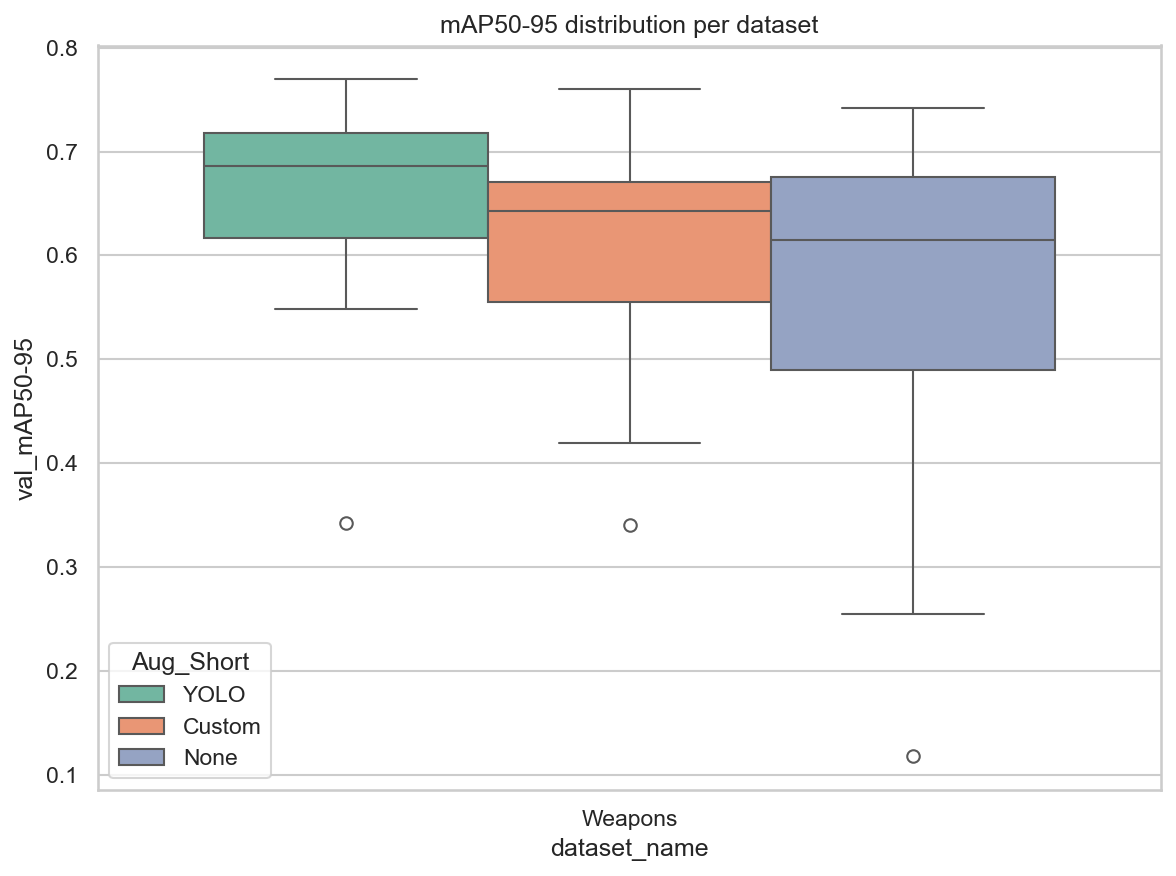
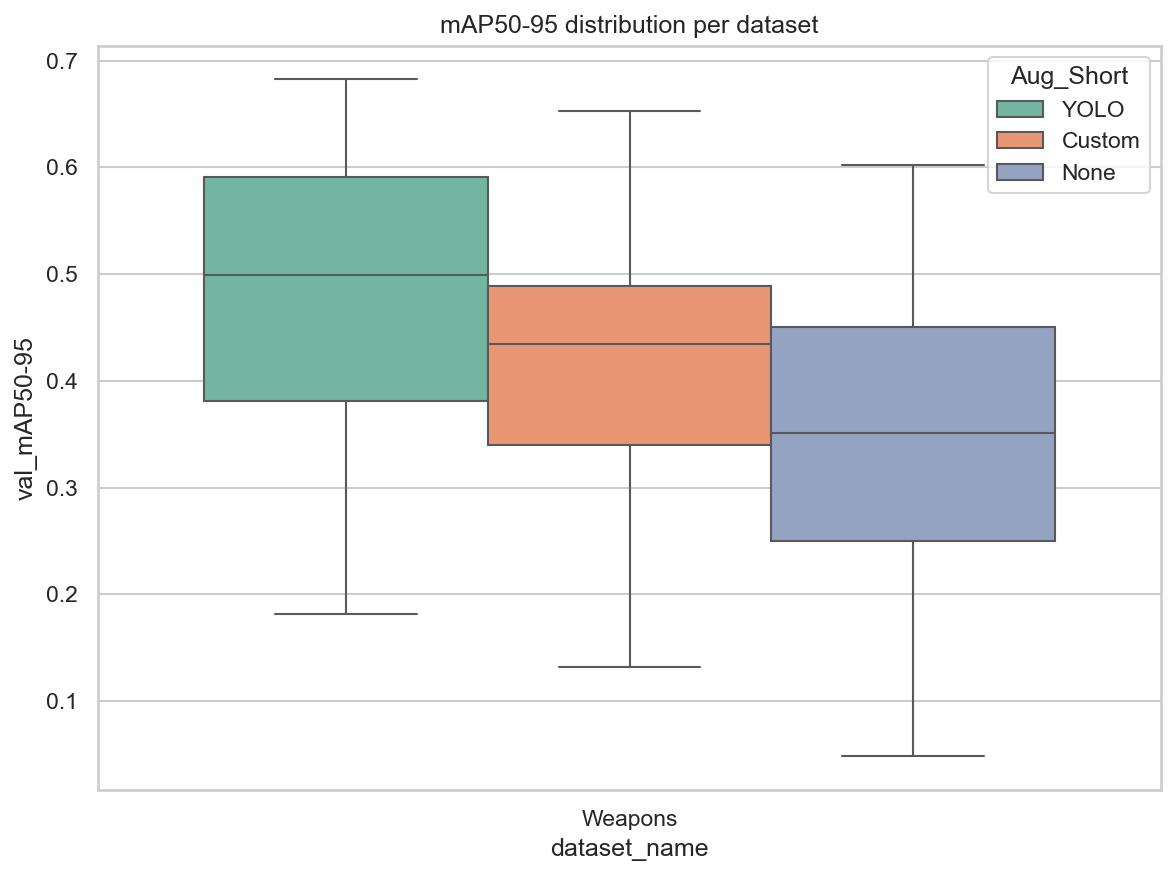
new weapons grid on val_clean, update plots

diff --git a/src/analyze_results.py b/src/analyze_results.py
@@ -5,8 +5,7 @@
 
 Caveats: every grid cell is a single run (no repeated seeds); YOLO-internal runs often reach the 100-epoch cap
 while the others early-stop at ~30-60 epochs, so augmentation and training length are confounded.
-NOTE: weapons grid results were measured on a val split where 77/143 images are copies of train images,
-so absolute weapons numbers are inflated; see src/check_dataset.py.
+Weapons runs are validated on val_clean (the Kaggle val images without a copy in train); see src/make_clean_val.py.
 """
 import argparse
 from pathlib import Path
